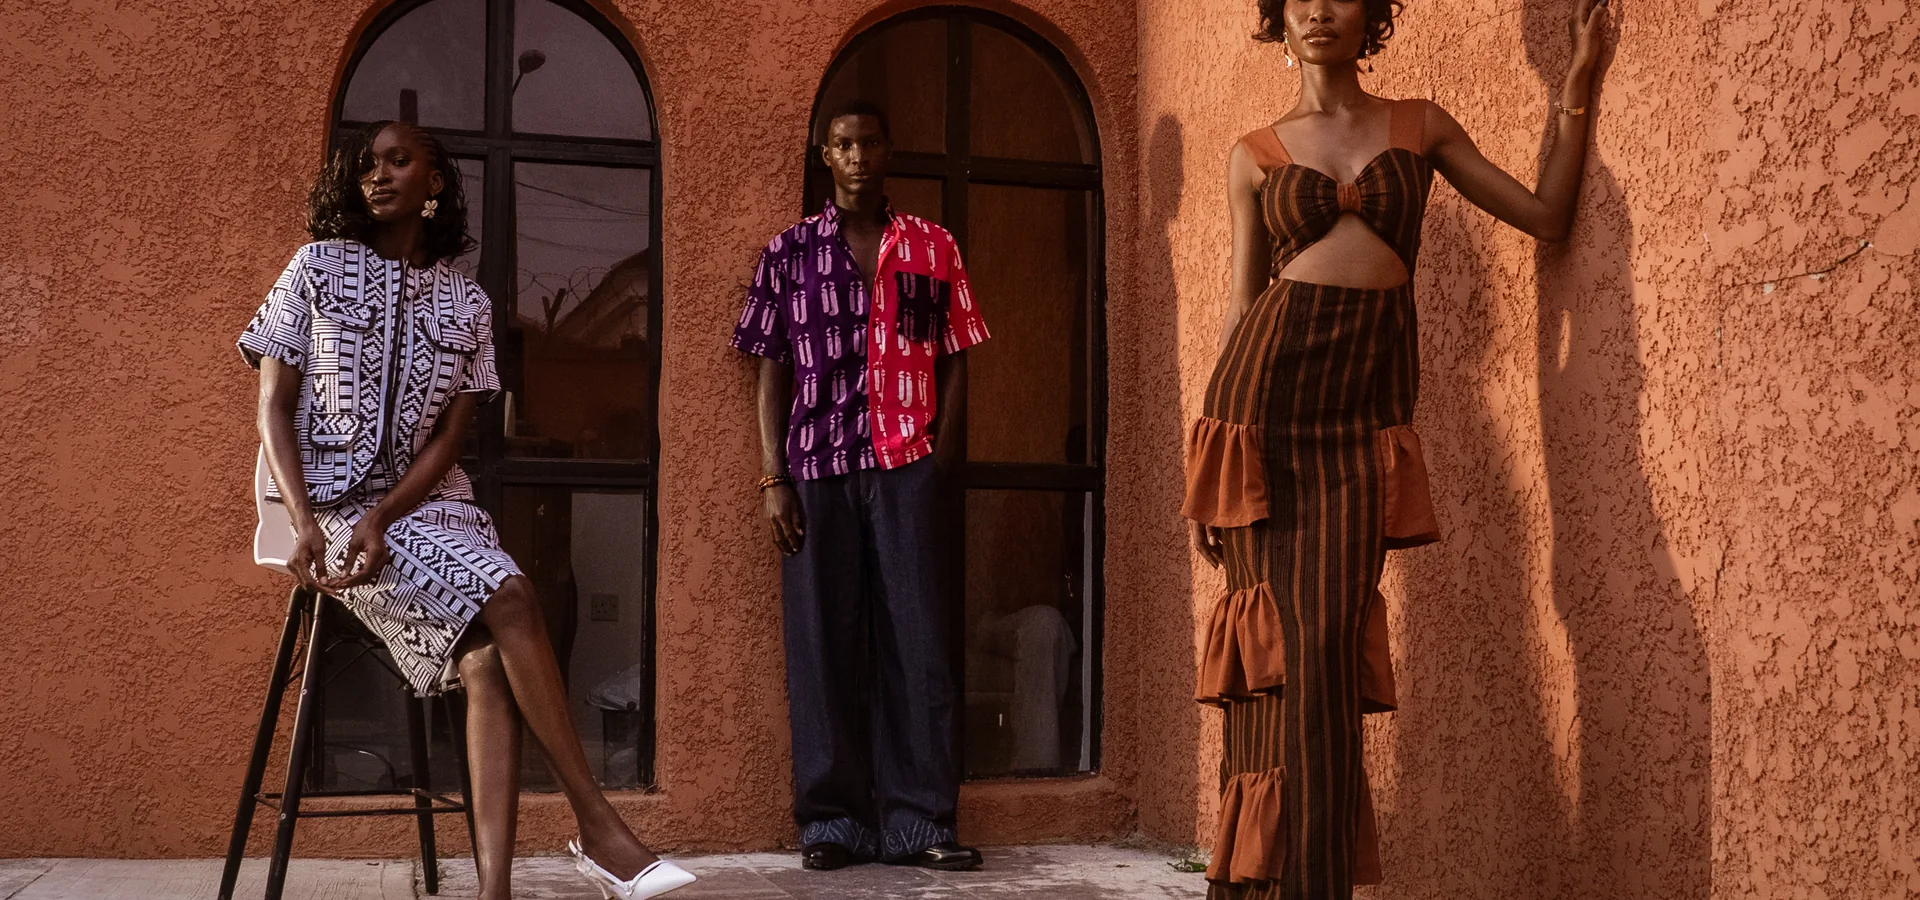
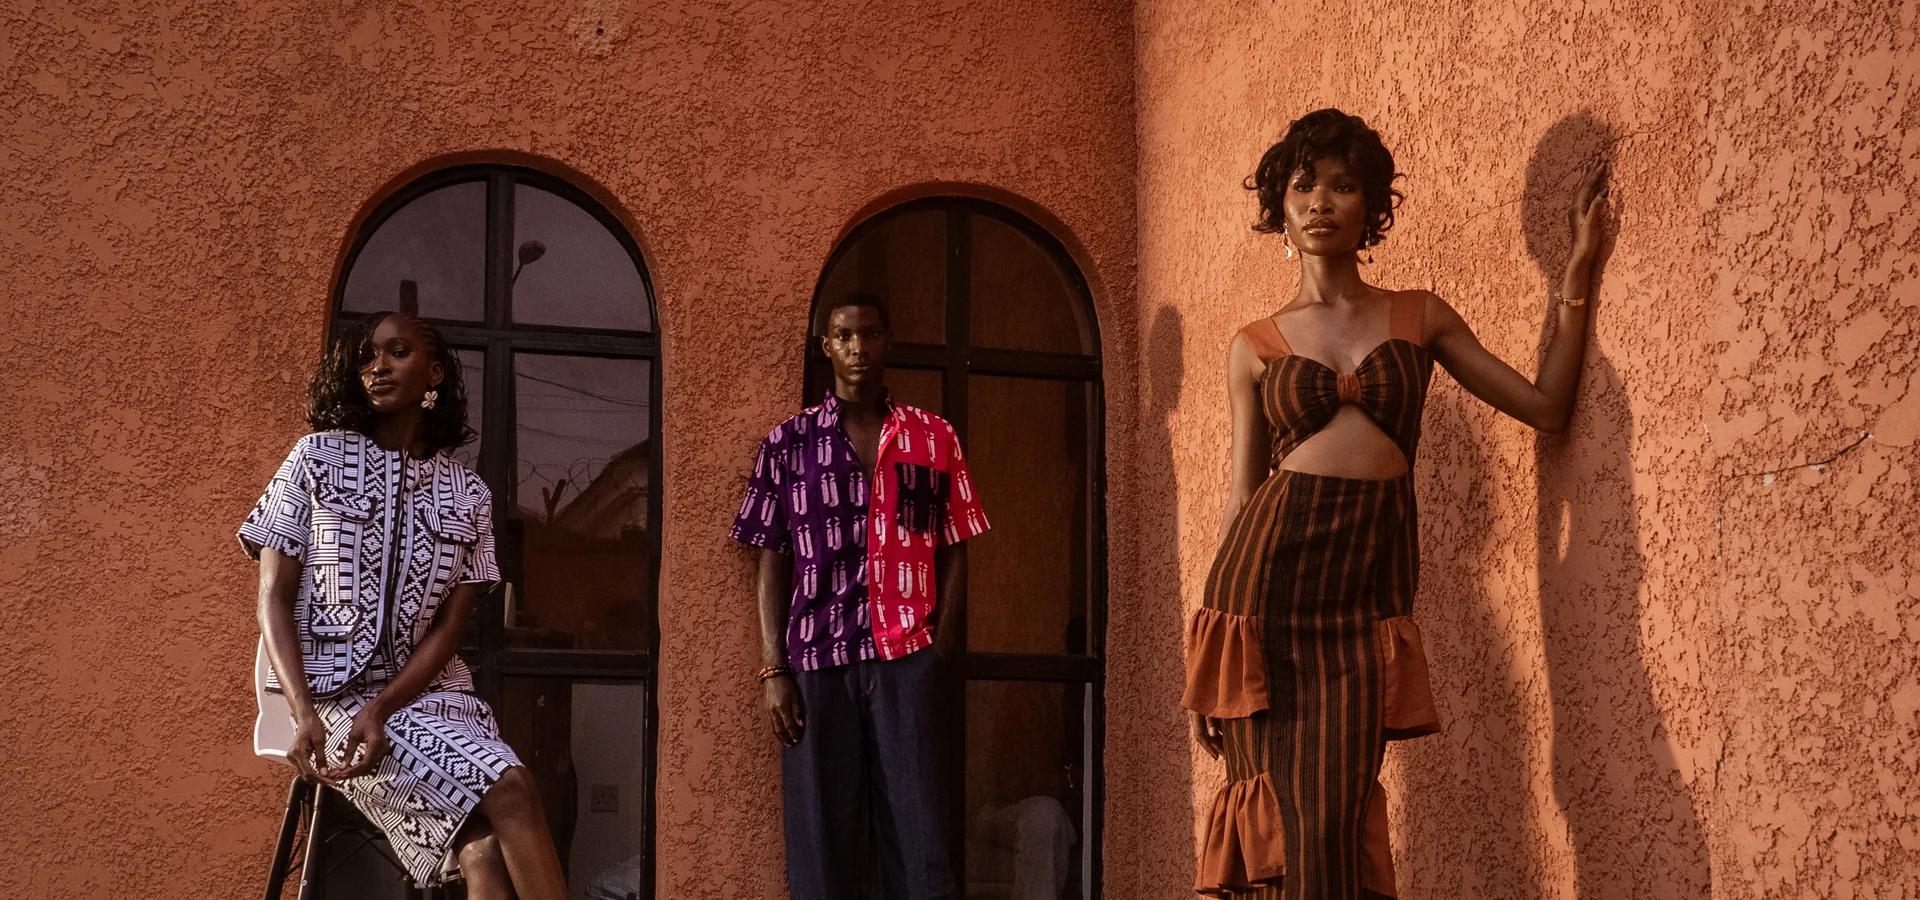
refine home hero campaign art direction

diff --git a/shopsoma-frontend/src/pages/Home.tsx b/shopsoma-frontend/src/pages/Home.tsx
@@ -17,9 +17,9 @@ const HERO_SLIDES = [
     alt: 'Orange Culture campaign look 1: three models outside a terracotta building',
   },
   {
-    desktop: '/images/hero/campaign/campaign-stairwell-desktop.webp',
-    mobile: '/images/hero/campaign/campaign-stairwell-mobile.webp',
-    alt: 'Orange Culture campaign look 2: a model in a warm stairwell',
+    desktop: '/images/hero/campaign/campaign-interior-desktop.webp',
+    mobile: '/images/hero/campaign/campaign-interior-mobile.webp',
+    alt: 'Orange Culture campaign look 2: models gathered in an editorial interior',
   },
   {
     desktop: '/images/hero/campaign/campaign-lounge-desktop.webp',
@@ -196,7 +196,6 @@ function Hero() {
   const [readySlides, setReadySlides] = useState<Set<number>>(() => new Set([0]));
   const [pendingSlide, setPendingSlide] = useState<number | null>(null);
   const [failedSlides, setFailedSlides] = useState<Set<number>>(() => new Set());
-  const [isPaused, setIsPaused] = useState(false);
   const [isInteracting, setIsInteracting] = useState(false);
 
   useEffect(() => {
@@ -208,15 +207,14 @@ function Hero() {
     return () => media.removeEventListener('change', update);
   }, []);
 
-  const requestSlide = (target: number, userInitiated = false) => {
-    if (userInitiated) setIsPaused(true);
+  const requestSlide = (target: number) => {
     const next = (target + HERO_SLIDES.length) % HERO_SLIDES.length;
     if (
       (next === activeSlide && mountedSlides.has(next) && readySlides.has(next) && !failedSlides.has(next))
       || (pendingSlide === next && mountedSlides.has(next) && !failedSlides.has(next))
     ) return;
     if (readySlides.has(next)) {
-      if (userInitiated) setPendingSlide(null);
+      setPendingSlide(null);
       setActiveSlide(next);
       return;
     }
@@ -279,12 +277,10 @@ function Hero() {
   };
 
   useEffect(() => {
-    if (reducedMotion || isPaused || isInteracting || pendingSlide !== null) return;
+    if (reducedMotion || isInteracting || pendingSlide !== null) return;
     const timer = window.setTimeout(() => requestSlide(activeSlide + 1), 6500);
     return () => window.clearTimeout(timer);
-  }, [activeSlide, isInteracting, isPaused, pendingSlide, reducedMotion]);
-
-  const showSlide = (next: number) => requestSlide(next, true);
+  }, [activeSlide, isInteracting, pendingSlide, reducedMotion]);
 
   return (
     <section
@@ -323,8 +319,8 @@ function Hero() {
         </div>
       )}
 
-      <div className="pointer-events-none absolute inset-0 bg-gradient-to-t from-[#17110eee] via-[#17110e38] to-transparent" />
-      <div className="relative z-10 flex w-full flex-col items-start gap-6 px-5 pb-7 sm:flex-row sm:items-end sm:justify-between sm:gap-5 sm:px-10 sm:pb-10 lg:px-16 lg:pb-14">
+      <div className="pointer-events-none absolute inset-0 bg-gradient-to-t from-[#105E53]/[0.82] via-[#105E53]/[0.30] to-transparent" />
+      <div className="relative z-10 flex w-full flex-col items-start px-5 pb-7 sm:px-10 sm:pb-10 lg:px-16 lg:pb-14">
         <div className="max-w-xl text-white">
           <p className="mb-3 text-[10px] font-ui font-semibold uppercase tracking-[0.32em] text-white/75">ShopSoma presents</p>
           <h1 className="font-serif text-3xl font-normal leading-tight sm:text-4xl lg:text-5xl" style={{ fontFamily: 'var(--font-serif)', textShadow: '0 2px 12px rgba(0,0,0,0.35)' }}>
@@ -334,13 +330,6 @@ function Hero() {
             <Link to="/men" className="pointer-events-auto border-b border-white pb-1 text-xs font-ui uppercase tracking-[0.2em] text-white transition-opacity hover:opacity-75">Shop Men</Link>
             <Link to="/women" className="pointer-events-auto border-b border-white pb-1 text-xs font-ui uppercase tracking-[0.2em] text-white transition-opacity hover:opacity-75">Shop Women</Link>
           </div>
-        </div>
-
-        <div className="pointer-events-auto flex shrink-0 items-center gap-3 text-white">
-          <button type="button" aria-label="Show previous campaign image" onClick={() => showSlide(activeSlide - 1)} className="grid h-10 w-10 place-items-center rounded-full border border-white/45 bg-black/15 text-lg transition hover:bg-white hover:text-[#1b1715]" aria-controls="home-campaign-status">←</button>
-          <button type="button" aria-label={isPaused ? 'Resume automatic slideshow' : 'Pause automatic slideshow'} onClick={() => setIsPaused((paused) => !paused)} className="grid h-10 w-10 place-items-center rounded-full border border-white/45 bg-black/15 text-xs font-ui transition hover:bg-white hover:text-[#1b1715]">{isPaused ? '▶' : 'Ⅱ'}</button>
-          <span id="home-campaign-status" aria-live={isPaused ? 'polite' : 'off'} className="min-w-9 text-center text-[10px] font-ui tracking-[0.18em]">{activeSlide + 1} / {HERO_SLIDES.length}</span>
-          <button type="button" aria-label="Show next campaign image" onClick={() => showSlide(activeSlide + 1)} className="grid h-10 w-10 place-items-center rounded-full border border-white/45 bg-black/15 text-lg transition hover:bg-white hover:text-[#1b1715]">→</button>
         </div>
       </div>
     </section>

diff --git a/shopsoma-frontend/src/pages/__tests__/Home.test.tsx b/shopsoma-frontend/src/pages/__tests__/Home.test.tsx
@@ -1,5 +1,5 @@
 import type { ReactNode } from 'react';
-import { fireEvent, render, screen } from '@testing-library/react';
+import { render, screen } from '@testing-library/react';
 import { MemoryRouter } from 'react-router-dom';
 import { beforeEach, describe, expect, it, vi } from 'vitest';
 import Home from '../Home';
@@ -70,74 +70,9 @@ describe('Home', () => {
     expect(hero).toHaveAttribute('aria-roledescription', 'carousel');
     expect(screen.getByRole('img', { name: /campaign look 1/i })).toBeInTheDocument();
     expect(screen.queryByRole('img', { name: /campaign look 3/i })).not.toBeInTheDocument();
-    expect(screen.getByRole('button', { name: 'Pause automatic slideshow' })).toBeInTheDocument();
-    fireEvent.click(screen.getByRole('button', { name: 'Show next campaign image' }));
-    const nextImage = screen.getByAltText(/campaign look 2/i);
-    expect(nextImage).toHaveAttribute('loading', 'eager');
-    expect(screen.getByText('1 / 3')).toBeInTheDocument();
-    fireEvent.load(nextImage);
-    expect(screen.getByText('2 / 3')).toBeInTheDocument();
-  });
-
-  it('recovers from a failed pending campaign image without losing the active slide', () => {
-    render(
-      <MemoryRouter>
-        <Home />
-      </MemoryRouter>
-    );
-
-    fireEvent.click(screen.getByRole('button', { name: 'Show next campaign image' }));
-    const failedImage = screen.getByAltText(/campaign look 2/i);
-    fireEvent.error(failedImage);
-    expect(screen.queryByAltText(/campaign look 2/i)).not.toBeInTheDocument();
-    expect(screen.getByRole('img', { name: /campaign look 1/i })).toBeInTheDocument();
-
-    fireEvent.click(screen.getByRole('button', { name: 'Show next campaign image' }));
-    expect(screen.getByAltText(/campaign look 2/i)).toBeInTheDocument();
-  });
-
-  it('cancels an obsolete pending slide and removes a stale failed asset', () => {
-    render(
-      <MemoryRouter>
-        <Home />
-      </MemoryRouter>
-    );
-
-    fireEvent.click(screen.getByRole('button', { name: 'Show next campaign image' }));
-    fireEvent.load(screen.getByAltText(/campaign look 2/i));
-    fireEvent.click(screen.getByRole('button', { name: 'Show next campaign image' }));
-    const staleImage = screen.getByAltText(/campaign look 3/i);
-    fireEvent.click(screen.getByRole('button', { name: 'Show previous campaign image' }));
-    expect(screen.getByText('1 / 3')).toBeInTheDocument();
-
-    fireEvent.load(staleImage);
-    expect(screen.getByText('1 / 3')).toBeInTheDocument();
-    fireEvent.error(staleImage);
-    expect(screen.queryByAltText(/campaign look 3/i)).not.toBeInTheDocument();
-  });
-
-  it('continues failover and retries a previously failed active slide', () => {
-    render(
-      <MemoryRouter>
-        <Home />
-      </MemoryRouter>
-    );
-
-    fireEvent.error(screen.getByAltText(/campaign look 1/i));
-    fireEvent.error(screen.getByAltText(/campaign look 2/i));
-    const lastFallbackImage = screen.getByAltText(/campaign look 3/i);
-    fireEvent.error(lastFallbackImage);
-    expect(screen.getByRole('status')).toHaveTextContent('Campaign imagery is temporarily unavailable.');
-
-    fireEvent.click(screen.getByRole('button', { name: 'Show previous campaign image' }));
-    const retriedSlide = screen.getByAltText(/campaign look 3/i);
-    fireEvent.load(retriedSlide);
-    expect(screen.getByText('3 / 3')).toBeInTheDocument();
-
-    fireEvent.click(screen.getByRole('button', { name: 'Show next campaign image' }));
-    const retriedInitialImage = screen.getByAltText(/campaign look 1/i);
-    fireEvent.load(retriedInitialImage);
-    expect(screen.getByText('1 / 3')).toBeInTheDocument();
+    expect(screen.getByText('Orange Culture: A night Beyond')).toBeInTheDocument();
+    expect(screen.queryByRole('button', { name: /campaign image|automatic slideshow/i })).not.toBeInTheDocument();
+    expect(screen.queryByText(/1 \/ 3/)).not.toBeInTheDocument();
   });
 
   it('shows the updated shop by category labels', () => {
